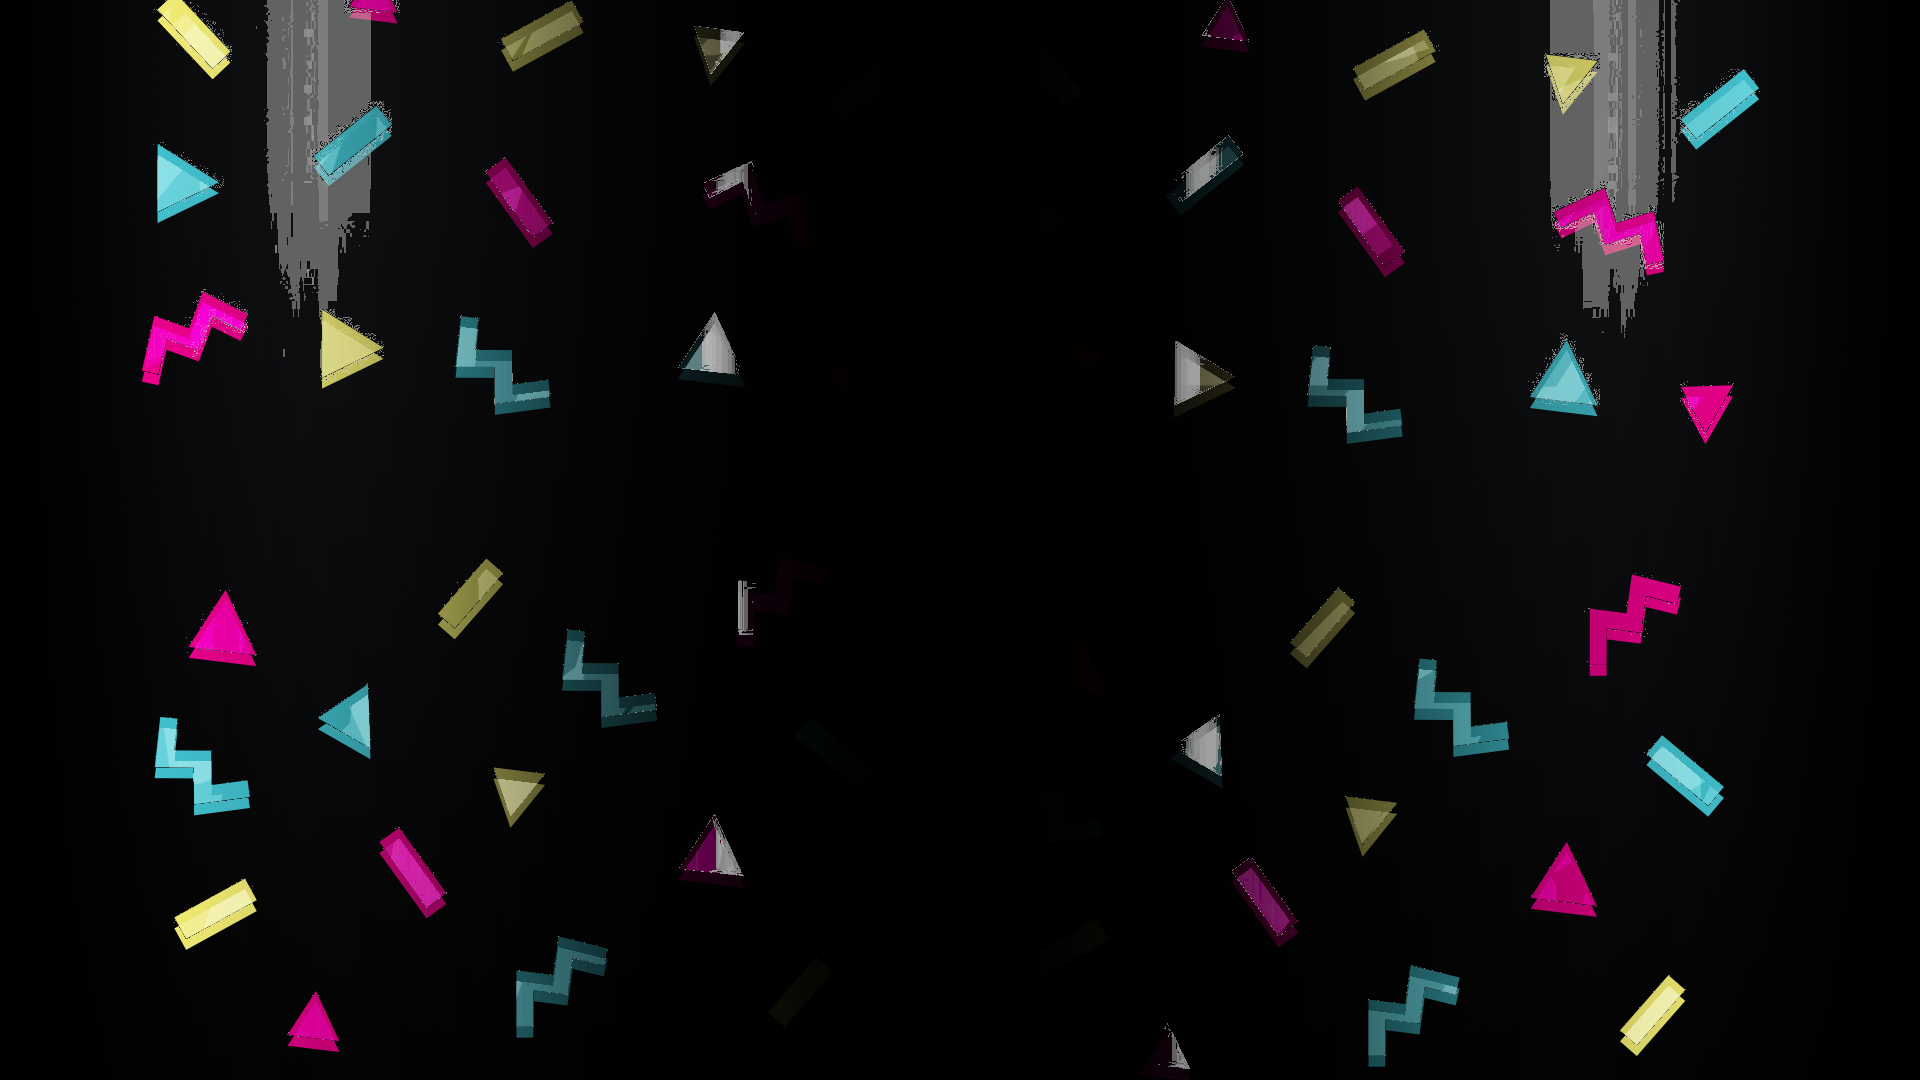
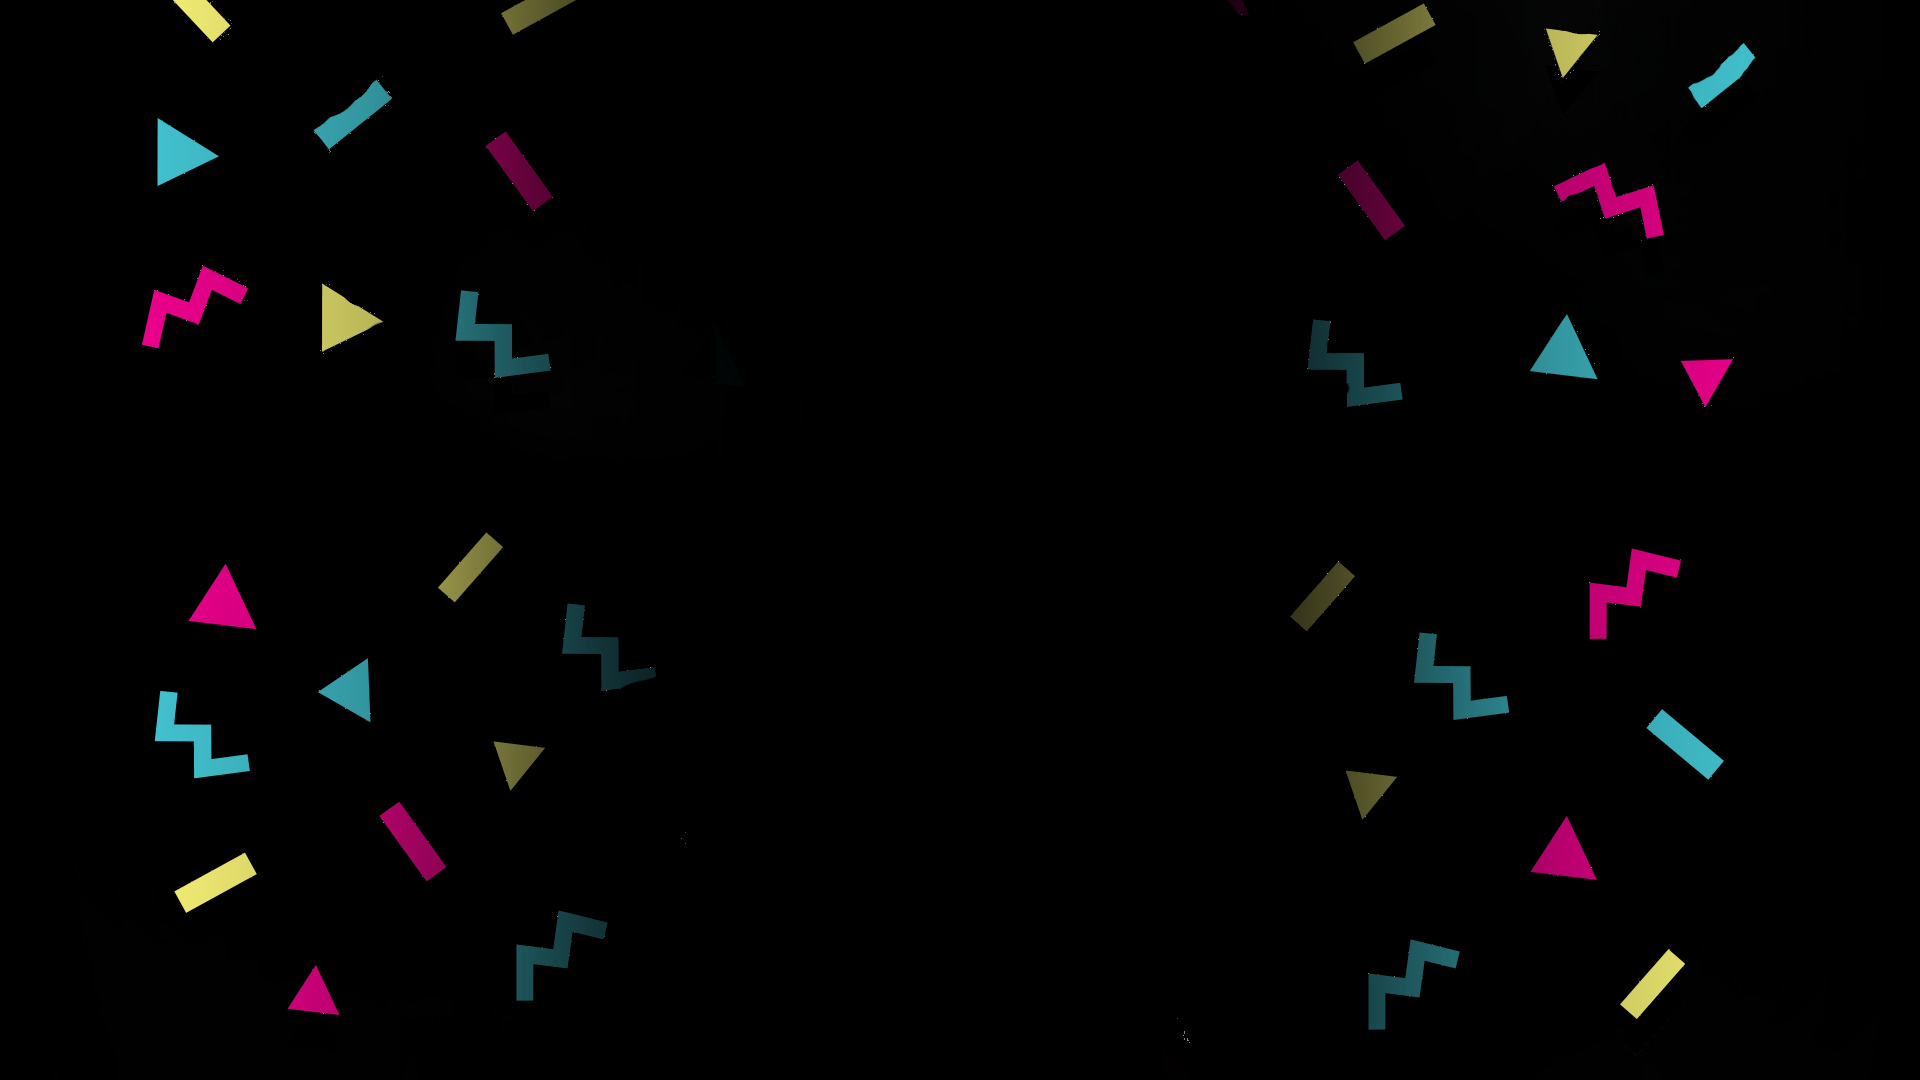
updated the image and timing

diff --git a/assets/css/style.css b/assets/css/style.css
@@ -8,8 +8,11 @@ body {
     0%{
         background: url("../images/5107c1158cfe9f8552383ff5490c793ae14c34c9.jpg");
     }
-    99%{
+    45%{
         background: url("../images/5107c1158cfe9f8552383ff5490c793ae14c34c9.jpg");
+    }
+    46%{
+        background: url("../images/5107c1158cfe9f8552383ff5490c793ae14c34c9v2.jpg");
     }
     100%{
         background: url("../images/5107c1158cfe9f8552383ff5490c793ae14c34c9v2.jpg");
